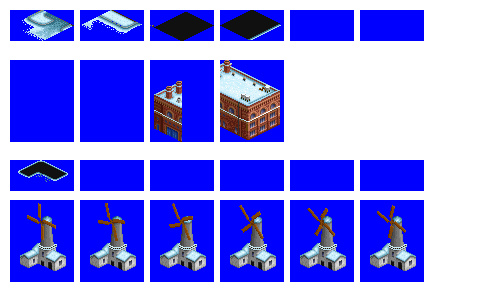
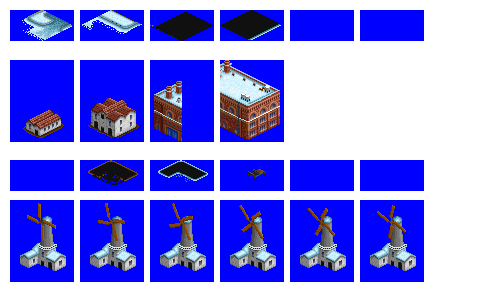
Feature: improved layouts and graphics for windmill variant of Grain Mill (adds new sprites)

diff --git a/src/industries/grain_mill.py b/src/industries/grain_mill.py
@@ -84,6 +84,7 @@ spriteset_4 = industry.add_spriteset(
     sprites = [(220, 60, 64, 82, -31, -51)],
     zextent = 48 # optional zextent value, will default to 16 if this param is omitted
 )
+# animated spriteset defined first so others can copy num. frames
 spriteset_windmill_anim = industry.add_spriteset(
     id = 'grain_mill_spriteset_windmill_anim',
     sprites = [(10, 200, 64, 82, -31, -52), (80, 200, 64, 82, -31, -52), (150, 200, 64, 82, -31, -52),
@@ -98,7 +99,12 @@ spriteset_ground_windmill = industry.add_spriteset(
 )
 spriteset_ground_overlay_windmill = industry.add_spriteset(
     id = 'grain_mill_spriteset_ground_overlay_windmill',
-    sprites = [(10, 160, 64, 31, -31, 0)],
+    sprites = [(150, 160, 64, 31, -31, 0)],
+    num_sprites_to_autofill = len(spriteset_windmill_anim.sprites), # autofills number of frames to match another spriteset which is animated etc (can get frame count from the other spriteset if defined already)
+)
+spriteset_ground_overlay_windmill_granary = industry.add_spriteset(
+    id = 'grain_mill_spriteset_ground_overlay_windmill_granary',
+    sprites = [(80, 160, 64, 31, -31, 0)],
     num_sprites_to_autofill = len(spriteset_windmill_anim.sprites), # autofills number of frames to match another spriteset which is animated etc (can get frame count from the other spriteset if defined already)
 )
 spriteset_windmill_granary = industry.add_spriteset(
@@ -106,14 +112,19 @@ spriteset_windmill_granary = industry.add_spriteset(
     sprites = [(80, 60, 64, 82, -31, -52)],
     num_sprites_to_autofill = len(spriteset_windmill_anim.sprites), # autofills number of frames to match another spriteset which is animated etc (can get frame count from the other spriteset if defined already)
 )
-spriteset_ground_windmill_granary = industry.add_spriteset(
-    id = 'grain_mill_spriteset_ground_windmill_granary',
-    type = 'empty',
+spriteset_ground_overlay_windmill_shed = industry.add_spriteset(
+    id = 'grain_mill_spriteset_ground_overlay_windmill_shed',
+    sprites = [(10, 160, 64, 31, -31, 0)],
     num_sprites_to_autofill = len(spriteset_windmill_anim.sprites), # autofills number of frames to match another spriteset which is animated etc (can get frame count from the other spriteset if defined already)
 )
-spriteset_ground_overlay_windmill_granary = industry.add_spriteset(
-    id = 'grain_mill_spriteset_ground_overlay_windmill_granary',
-    sprites = [(80, 160, 64, 31, -31, 0)],
+spriteset_windmill_shed = industry.add_spriteset(
+    id = 'grain_mill_spriteset_windmill_shed',
+    sprites = [(10, 60, 64, 82, -31, -52)],
+    num_sprites_to_autofill = len(spriteset_windmill_anim.sprites), # autofills number of frames to match another spriteset which is animated etc (can get frame count from the other spriteset if defined already)
+)
+spriteset_ground_overlay_windmill_greeble = industry.add_spriteset(
+    id = 'grain_mill_spriteset_ground_overlay_windmill_greeble',
+    sprites = [(220, 160, 64, 31, -31, 0)],
     num_sprites_to_autofill = len(spriteset_windmill_anim.sprites), # autofills number of frames to match another spriteset which is animated etc (can get frame count from the other spriteset if defined already)
 )
 
@@ -161,7 +172,22 @@ industry.add_spritelayout(
     fences = ['nw','ne','se','sw'],
     terrain_aware_ground = True
 )
-
+industry.add_spritelayout(
+    id = 'grain_mill_spritelayout_windmill_shed',
+    ground_sprite = spriteset_ground_windmill,
+    ground_overlay = spriteset_ground_overlay_windmill_shed,
+    building_sprites = [spriteset_windmill_shed],
+    fences = ['nw','ne','se','sw'],
+    terrain_aware_ground = True
+)
+industry.add_spritelayout(
+    id = 'grain_mill_spritelayout_windmill_greeble',
+    ground_sprite = spriteset_ground_windmill,
+    ground_overlay = spriteset_ground_overlay_windmill_greeble,
+    building_sprites = [],
+    fences = ['nw','ne','se','sw'],
+    terrain_aware_ground = True
+)
 industry.add_industry_layout(
     id = 'grain_mill_industry_layout_1',
     layout = [(0, 0, 'grain_mill_tile_1', 'grain_mill_spritelayout_brickbakery_3'),
@@ -194,17 +220,23 @@ industry.add_industry_layout(
 )
 industry.add_industry_layout(
     id = 'grain_mill_industry_layout_4',
-    layout = [(0, 0, 'grain_mill_tile_1', 'grain_mill_spritelayout_windmill_granary'),
-              (0, 1, 'grain_mill_tile_1', 'grain_mill_spritelayout_windmill_anim')]
+    layout = [(0, 0, 'grain_mill_tile_1', 'grain_mill_spritelayout_windmill_shed'),
+              (0, 1, 'grain_mill_tile_1', 'grain_mill_spritelayout_windmill_granary'),
+              (1, 0, 'grain_mill_tile_1', 'grain_mill_spritelayout_windmill_anim'),
+              (1, 1, 'grain_mill_tile_1', 'grain_mill_spritelayout_windmill_greeble')]
 )
 industry.add_industry_layout(
     id = 'grain_mill_industry_layout_5',
-    layout = [(0, 0, 'grain_mill_tile_1', 'grain_mill_spritelayout_windmill_anim'),
-              (0, 1, 'grain_mill_tile_1', 'grain_mill_spritelayout_windmill_granary')]
+    layout = [(0, 0, 'grain_mill_tile_1', 'grain_mill_spritelayout_windmill_shed'),
+              (0, 1, 'grain_mill_tile_1', 'grain_mill_spritelayout_windmill_anim'),
+              (1, 0, 'grain_mill_tile_1', 'grain_mill_spritelayout_windmill_granary'),
+              (1, 1, 'grain_mill_tile_1', 'grain_mill_spritelayout_windmill_greeble')]
 )
 industry.add_industry_layout(
     id = 'grain_mill_industry_layout_6',
     layout = [(0, 0, 'grain_mill_tile_1', 'grain_mill_spritelayout_windmill_granary'),
-              (1, 0, 'grain_mill_tile_1', 'grain_mill_spritelayout_windmill_anim')]
+              (0, 1, 'grain_mill_tile_1', 'grain_mill_spritelayout_windmill_greeble'),
+              (1, 0, 'grain_mill_tile_1', 'grain_mill_spritelayout_windmill_anim'),
+              (1, 1, 'grain_mill_tile_1', 'grain_mill_spritelayout_windmill_shed')]
 )
 
